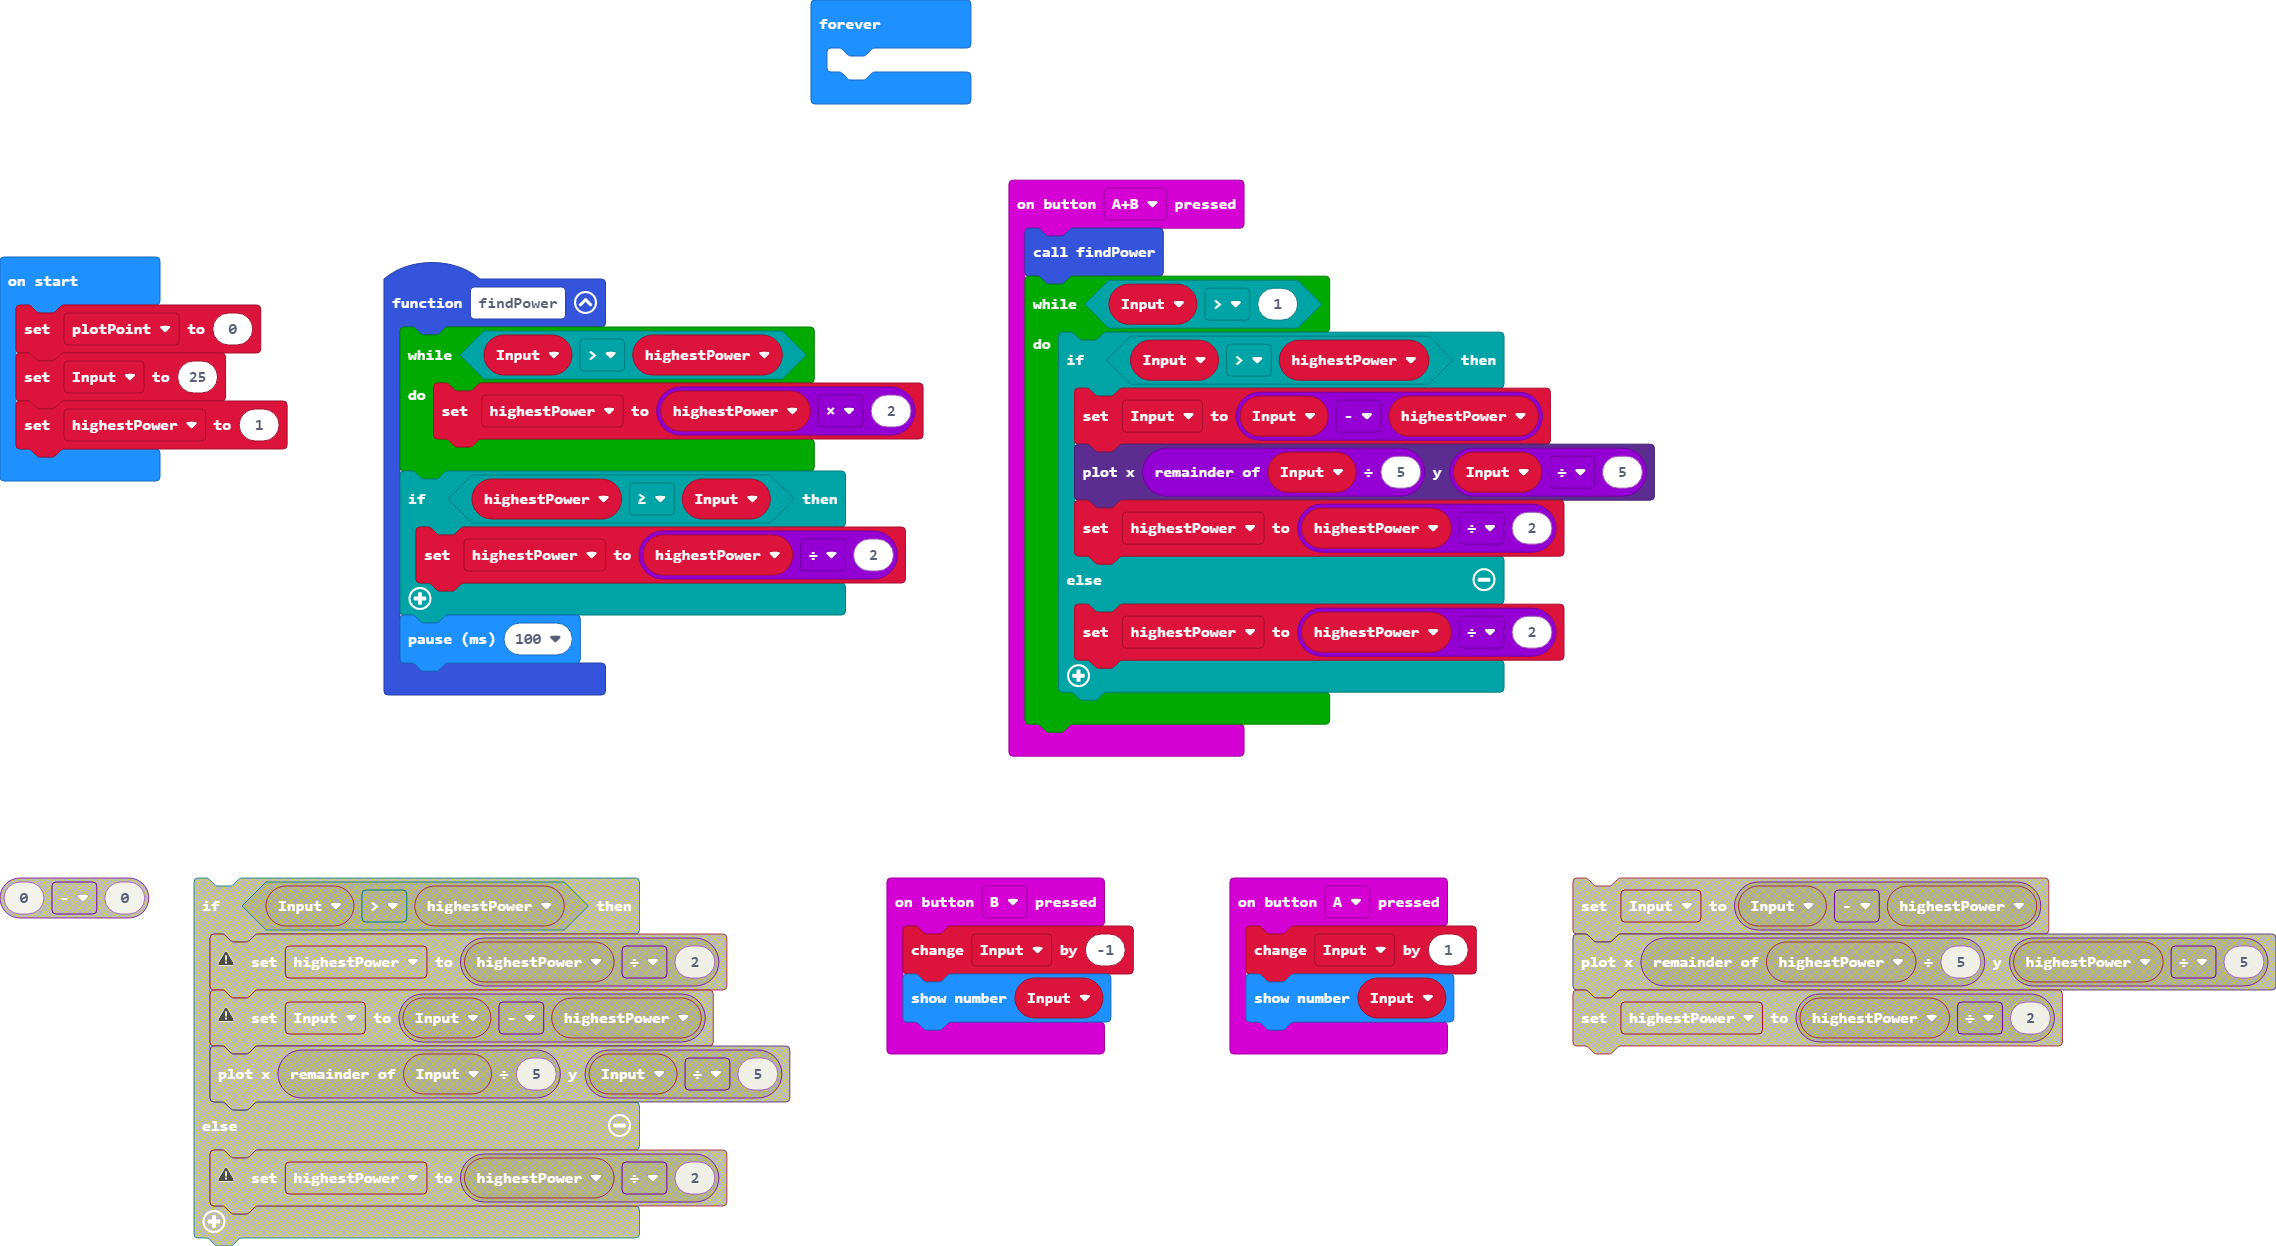
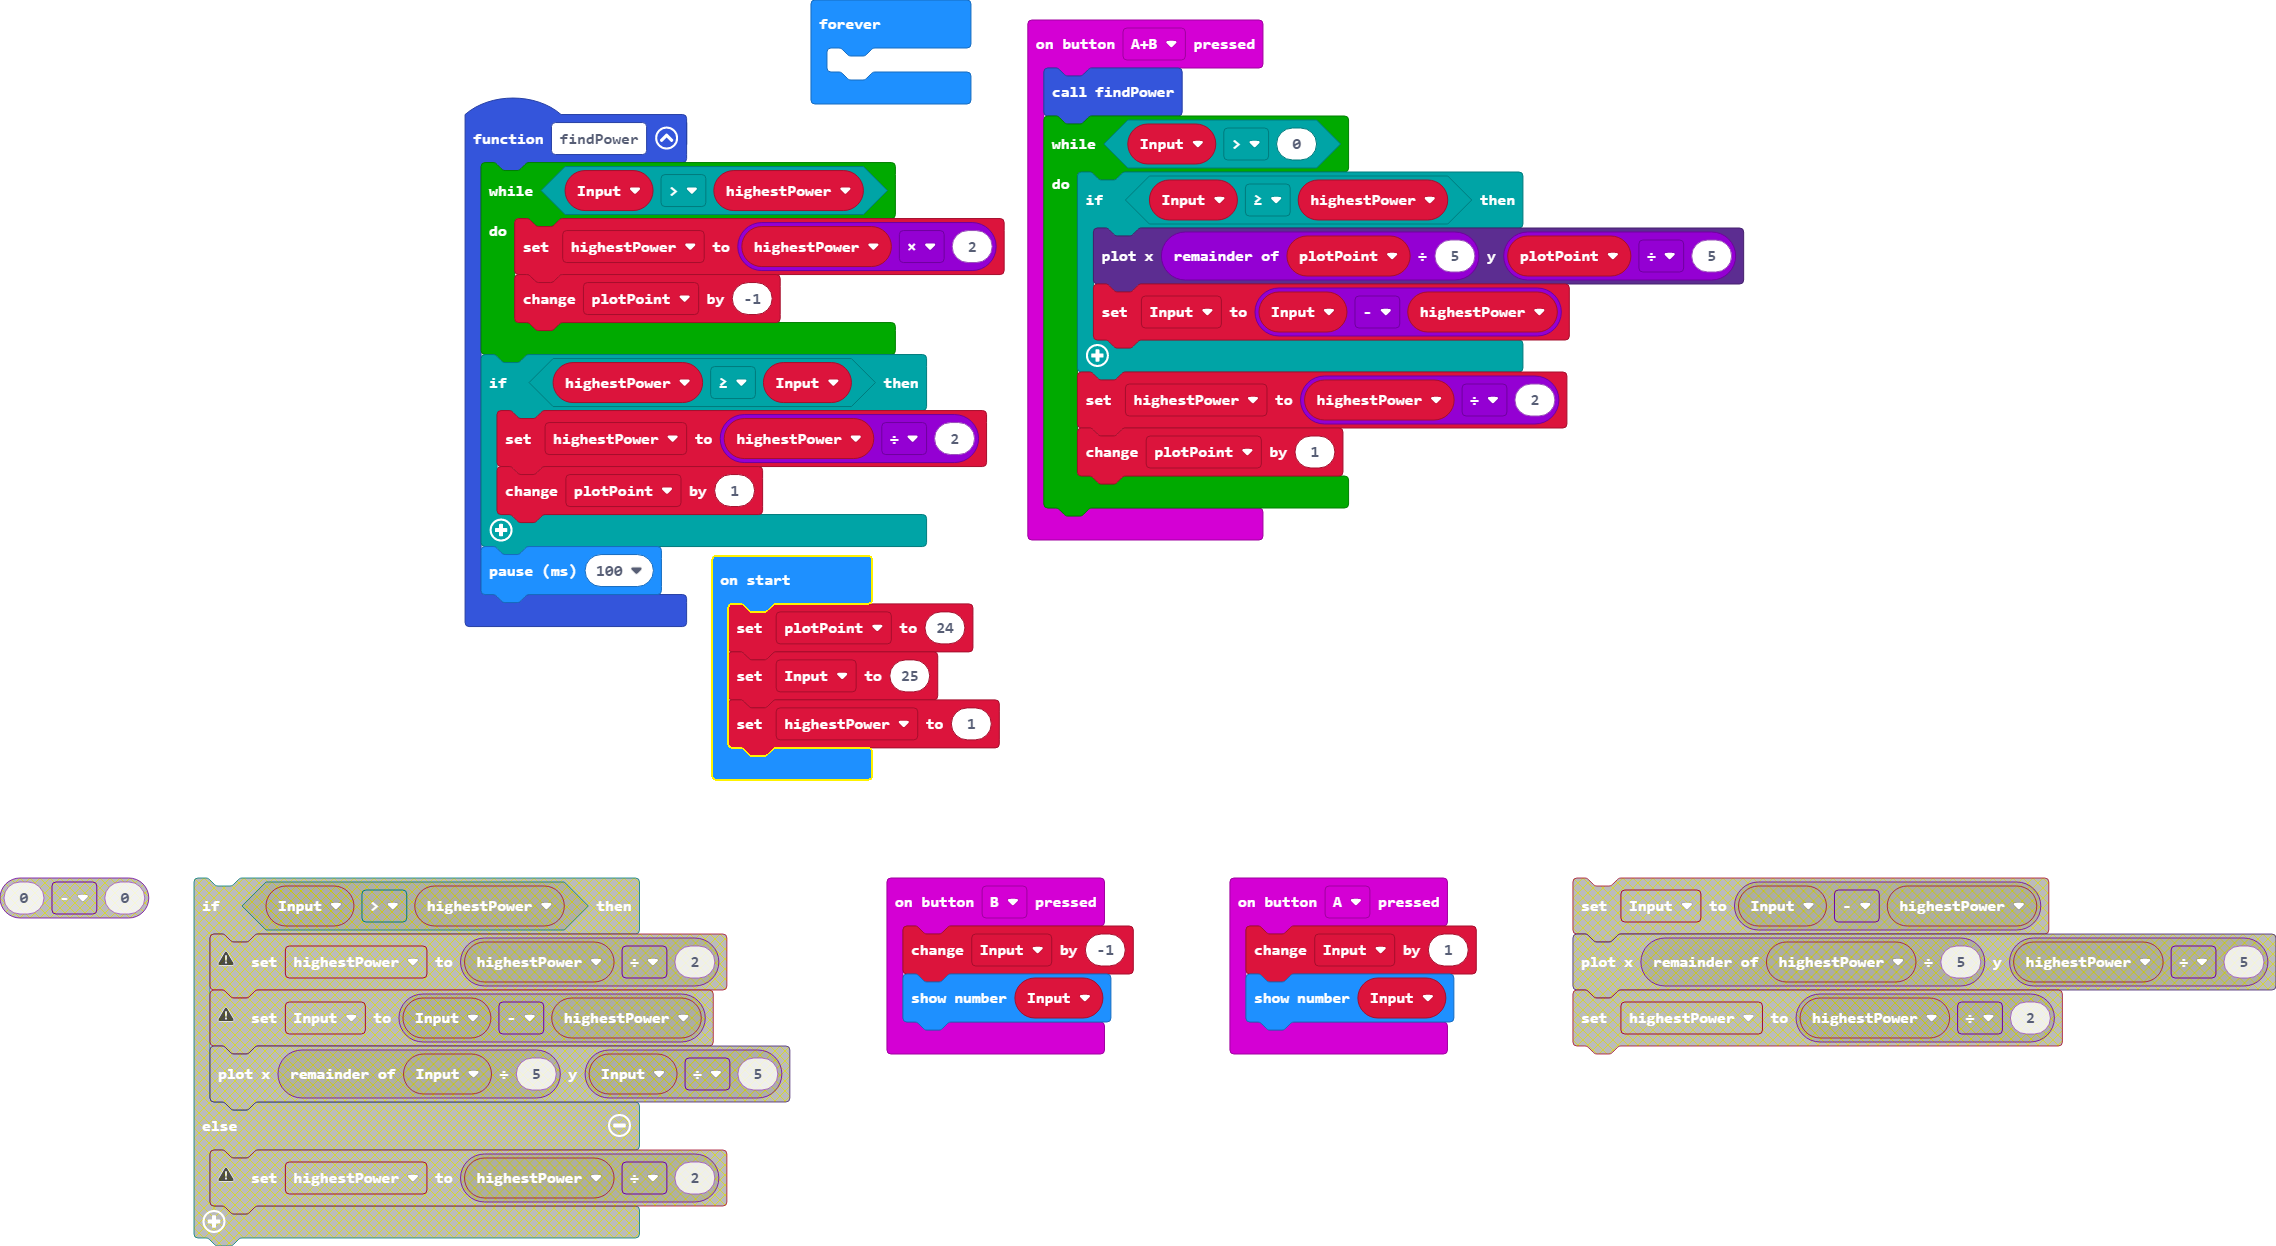
Fixed it

Changed region(s): [[0.156, 0.0, 0.7799, 0.6404], [0.0, 0.183, 0.1248, 0.3965]]

diff --git a/main.ts b/main.ts
@@ -1,9 +1,11 @@
 function findPower () {
     while (Input > highestPower) {
         highestPower = highestPower * 2
+        plotPoint += -1
     }
     if (highestPower >= Input) {
         highestPower = highestPower / 2
+        plotPoint += 1
     }
     basic.pause(100)
 }
@@ -13,14 +15,13 @@ input.onButtonPressed(Button.A, function () {
 })
 input.onButtonPressed(Button.AB, function () {
     findPower()
-    while (Input > 1) {
-        if (Input > highestPower) {
+    while (Input > 0) {
+        if (Input >= highestPower) {
+            led.plot(plotPoint % 5, plotPoint / 5)
             Input = Input - highestPower
-            led.plot(Input % 5, Input / 5)
-            highestPower = highestPower / 2
-        } else {
-            highestPower = highestPower / 2
         }
+        highestPower = highestPower / 2
+        plotPoint += 1
     }
 })
 input.onButtonPressed(Button.B, function () {
@@ -30,6 +31,7 @@ input.onButtonPressed(Button.B, function () {
 let highestPower = 0
 let Input = 0
 let plotPoint = 0
+plotPoint = 24
 Input = 25
 highestPower = 1
 basic.forever(function () {
